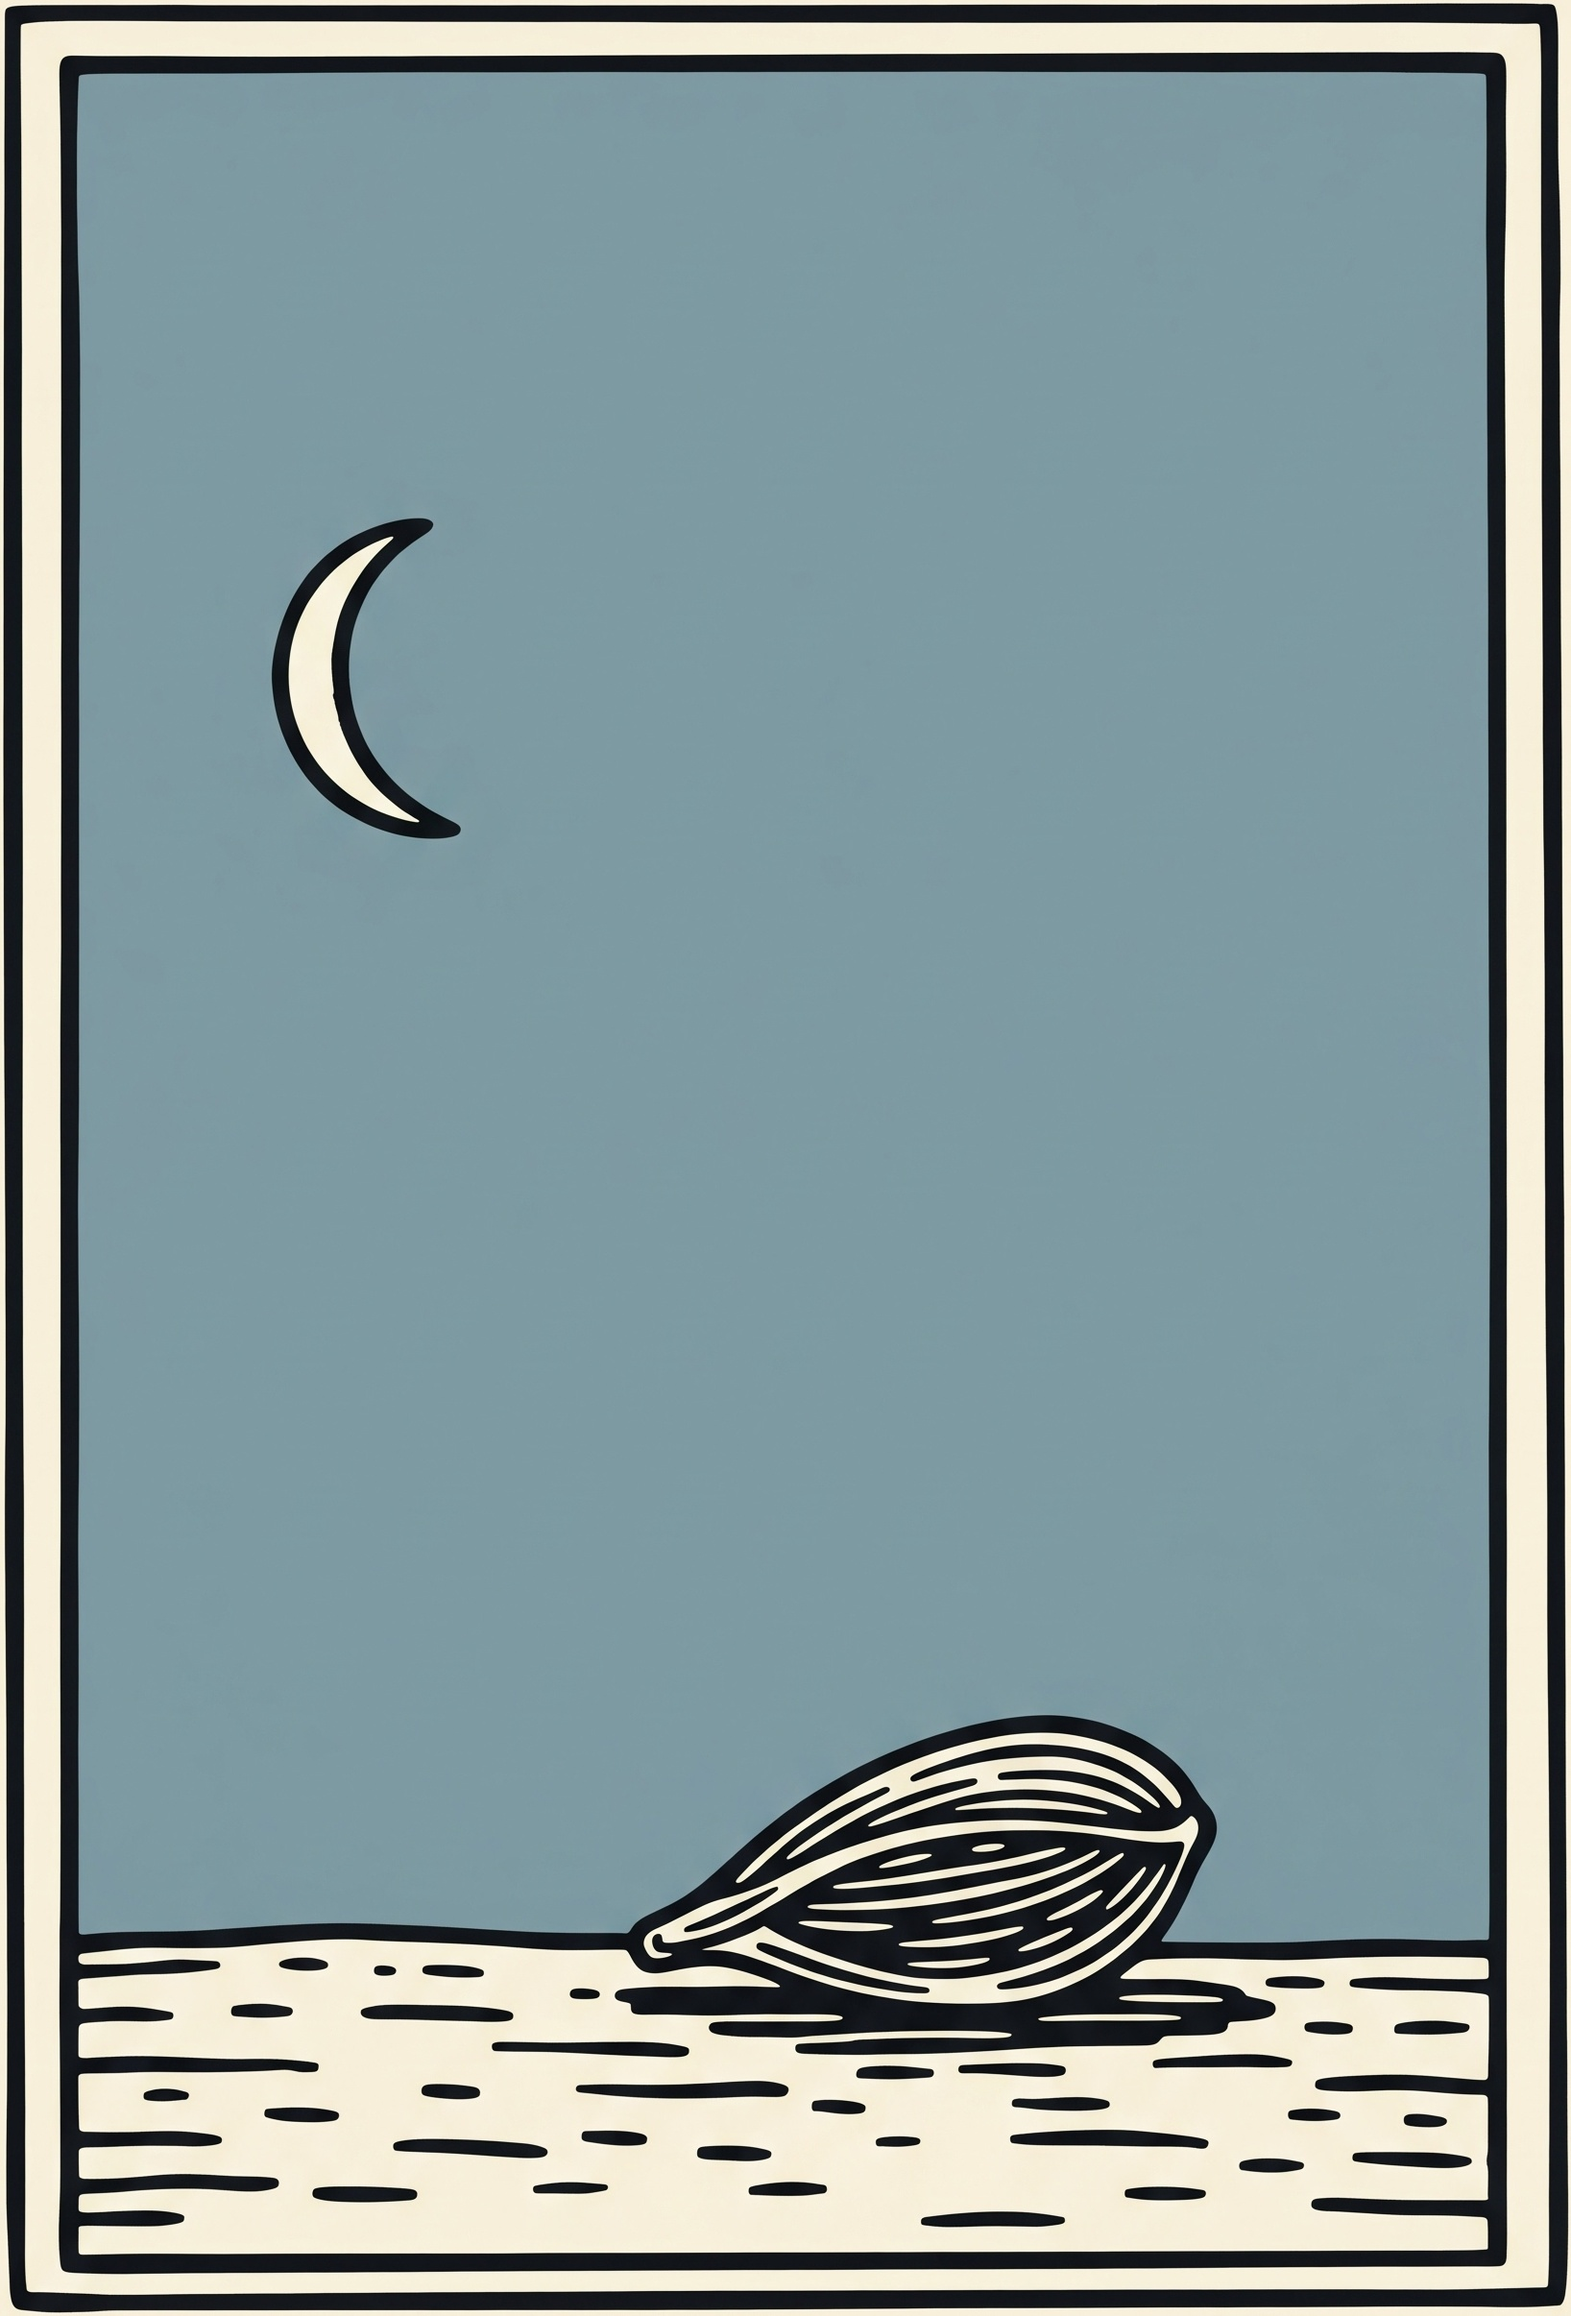
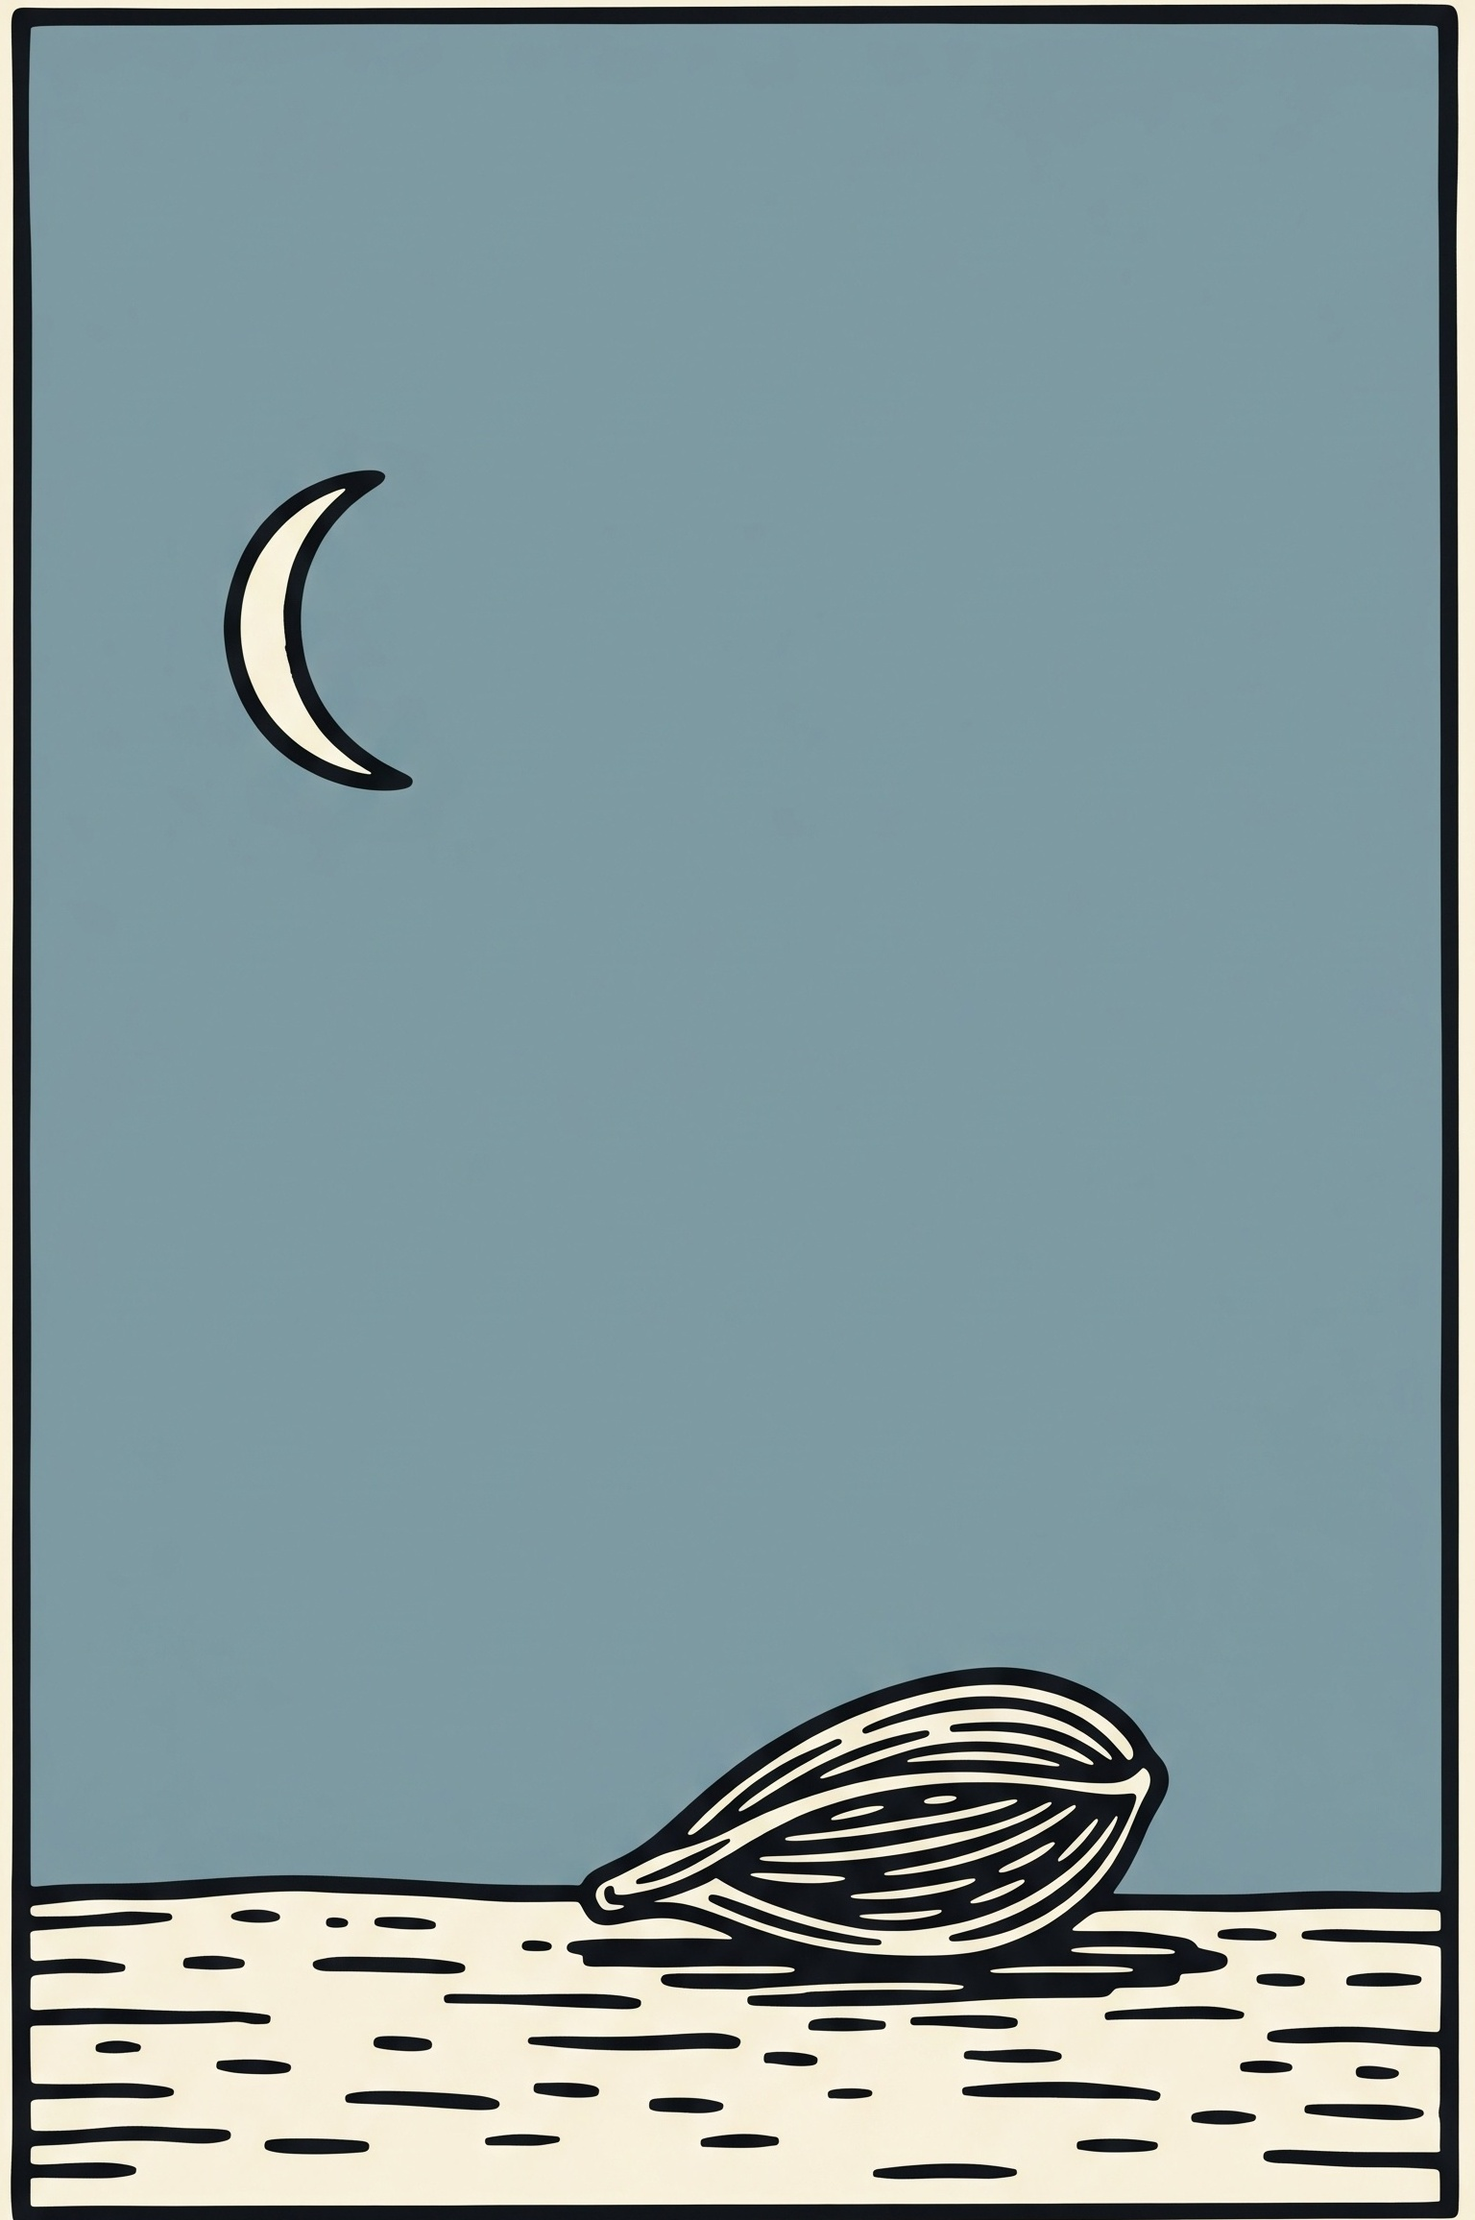
fix: 最後の3枚のタロットカード枠を削除
- super-moon.jpg: 45px枠を削除
- waning-crescent.jpg: 50px枠を削除
- waxing-gibbous.jpg: 40px枠を削除

全17枚のタロットカード画像の最適化完了

Changed region(s): [[0.0, 0.0, 1.0, 1.0], [0.1562, 0.1869, 0.2812, 0.3737]]

diff --git a/trim_last_three_cards.py b/trim_last_three_cards.py
@@ -1,0 +1,66 @@
+#!/usr/bin/env python3
+"""
+スーパームーン、暁月、十三夜月の枠をトリミング
+"""
+
+from PIL import Image
+import os
+
+def trim_borders(image_path, trim_pixels):
+    """
+    画像の周囲から指定ピクセル分をトリミング
+    """
+    img = Image.open(image_path)
+    width, height = img.size
+    
+    filename = os.path.basename(image_path)
+    print(f"\n処理中: {filename}")
+    print(f"  元のサイズ: {img.size}")
+    
+    # 新しい境界を計算
+    left = trim_pixels
+    top = trim_pixels
+    right = width - trim_pixels
+    bottom = height - trim_pixels
+    
+    # トリミング
+    if left < right and top < bottom:
+        cropped = img.crop((left, top, right, bottom))
+        
+        # 保存
+        cropped.save(image_path, 'JPEG', quality=95)
+        
+        print(f"  新しいサイズ: {cropped.size}")
+        print(f"  削減: {trim_pixels}ピクセル（全辺）")
+        return True
+    else:
+        print(f"  画像が小さすぎてトリミングできません")
+        return False
+
+def main():
+    """
+    最後の3枚をトリミング
+    """
+    base_dir = "/Users/shiraitouma/daniel/line-love-edu/public/images/tarot-cards"
+    
+    # 処理対象のファイルと各ファイルごとのトリミング量
+    target_files = {
+        "super-moon.jpg": 45,          # スーパームーン - 黒い枠を削除
+        "waning-crescent.jpg": 50,     # 暁月 - ベージュと黒の二重枠を削除
+        "waxing-gibbous.jpg": 40,      # 十三夜月 - 黒い枠を削除
+    }
+    
+    processed_count = 0
+    
+    for filename, trim_pixels in target_files.items():
+        file_path = os.path.join(base_dir, filename)
+        if os.path.exists(file_path):
+            if trim_borders(file_path, trim_pixels):
+                processed_count += 1
+        else:
+            print(f"ファイルが見つかりません: {filename}")
+    
+    print(f"\n完了！ {processed_count}個のファイルをトリミングしました。")
+
+if __name__ == "__main__":
+    main()
